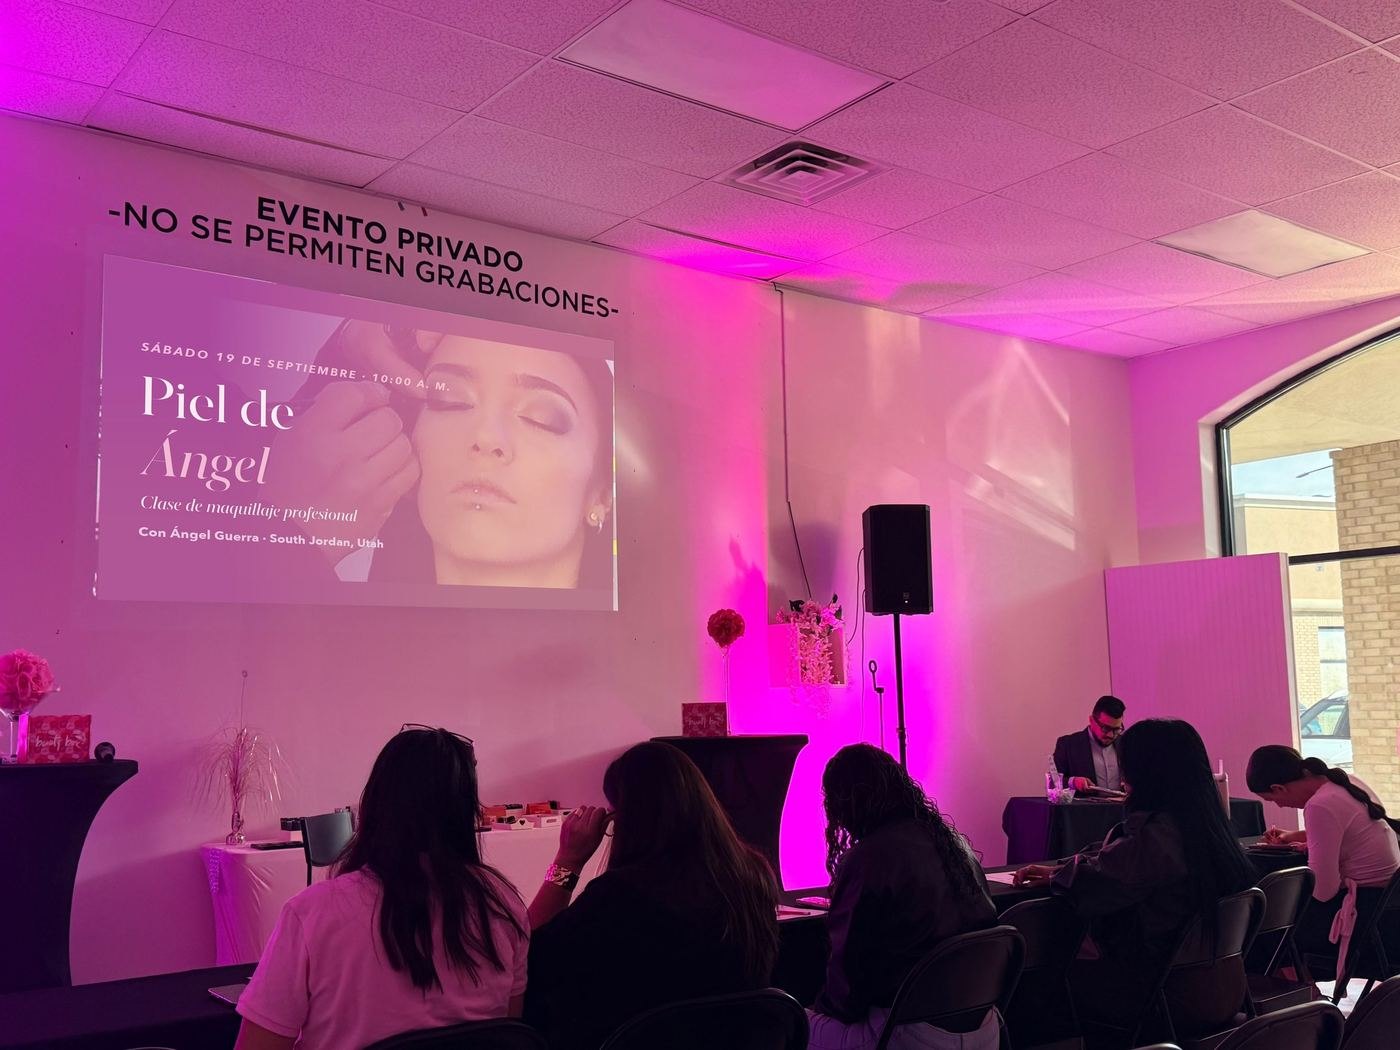
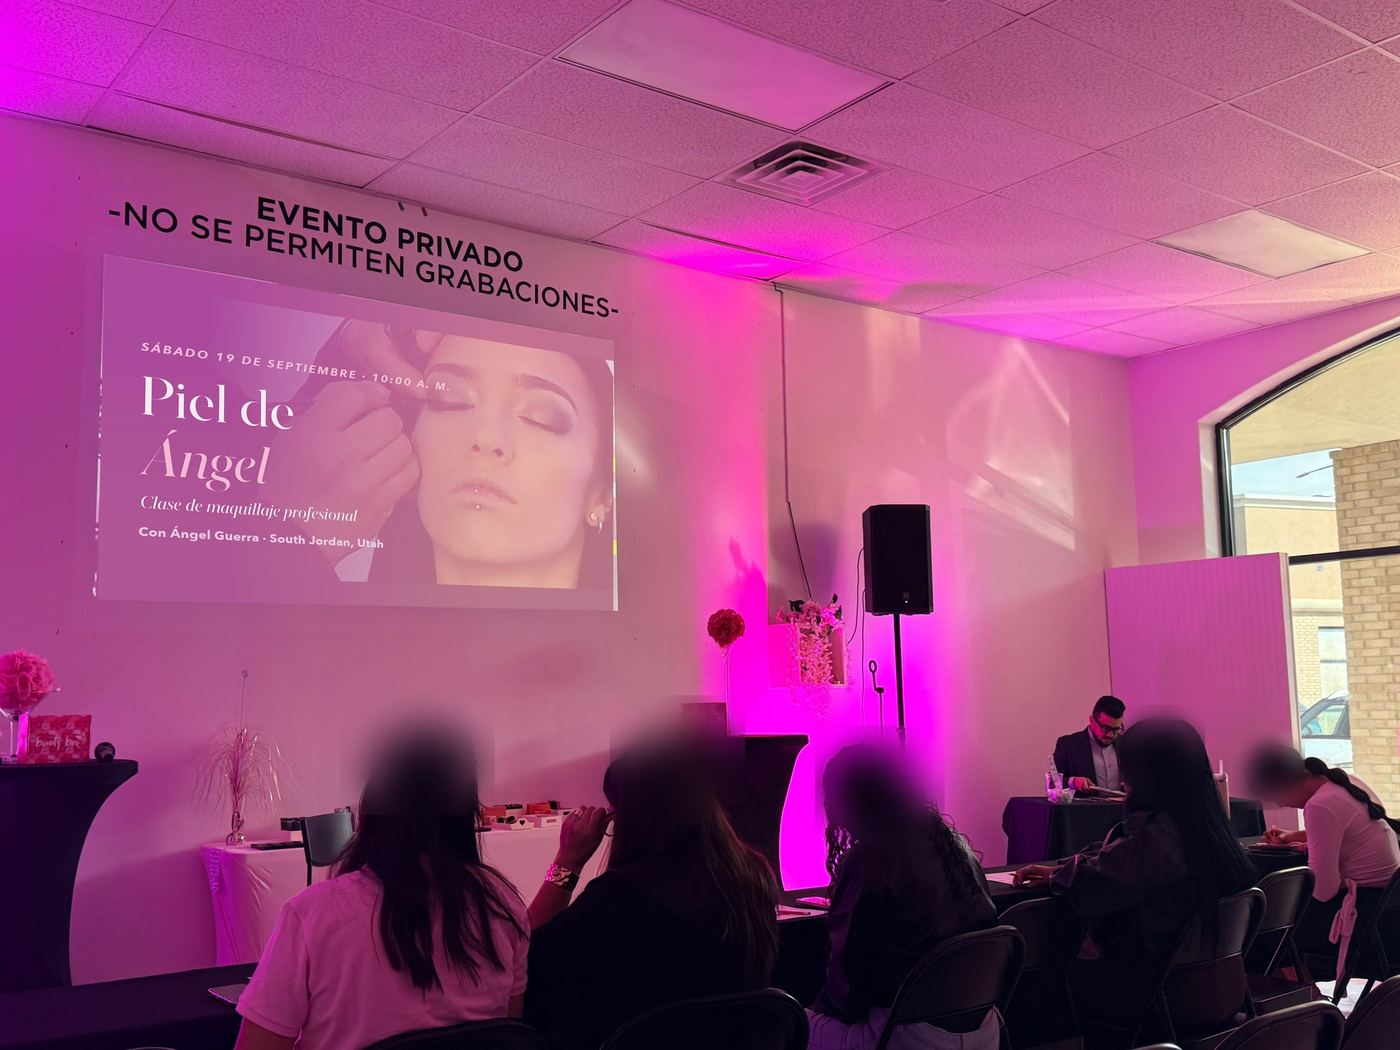
Caras difuminadas menos la mía, y es una guía, no material para practicar
- Las cinco cabezas de las asistentes quedan difuminadas con borde ovalado
  suave; la cara de Ángel se deja intacta. El difuminado se hace sobre la
  foto original y después se reduce, para no perder calidad.
- Angel corrigió un dato que yo tenía mal en la página viva: NO entrega
  material para practicar, entrega una guía. Corregido en los cuatro sitios
  donde lo decía (resta, qué llevar, pie de foto y texto alternativo).
- Decidido: NO se explica por qué la clase es de cortesía. Nombrar el curso
  de $1,999 rompía su regla de que quien va a la clase no sabe que existe.

diff --git a/index.html b/index.html
@@ -657,8 +657,8 @@
   <section class="prueba">
     <figure>
       <img src="salon-19-septiembre.jpg" width="1400" height="1050" loading="lazy" decoding="async"
-           alt="El salón de Piel de Ángel en South Jordan: mujeres sentadas frente a sus materiales y la portada de la clase proyectada en la pared">
-      <figcaption><b>Así estuvo la primera, el 19 de septiembre.</b> Salón montado, tu material en la mesa y una modelo maquillada en vivo, ahí mismo, delante de ti. Eso es lo que vas a encontrar el 8 y el 10 de octubre.</figcaption>
+           alt="El salón de Piel de Ángel en South Jordan: mujeres sentadas siguiendo la clase y la portada proyectada en la pared">
+      <figcaption><b>Así estuvo la primera, el 19 de septiembre.</b> Salón montado, tu guía en la mesa y una modelo maquillada en vivo, ahí mismo, delante de ti. Eso es lo que vas a encontrar el 8 y el 10 de octubre.</figcaption>
     </figure>
   </section>
 
@@ -673,7 +673,7 @@
         <form id="form" novalidate>
           <div class="valor">
             <div><span>Una clase así conmigo</span><b>$300</b></div>
-            <div><span>El material para practicar</span><b>incluido</b></div>
+            <div><span>La guía de la clase, para que te la lleves</span><b>incluida</b></div>
             <div class="hoy"><span>Hoy</span><b>$0</b></div>
             <p>Cupo limitado: el salón tiene los puestos que tiene.</p>
           </div>
@@ -878,7 +878,7 @@
         </div>
         <div class="dato">
           <span class="etiqueta">Qué llevar</span>
-          <p>Nada<small>El material para practicar lo pongo yo</small></p>
+          <p>Nada<small>La guía de la clase te la doy yo</small></p>
         </div>
         <div class="dato">
           <span class="etiqueta">Te recibimos con</span>
